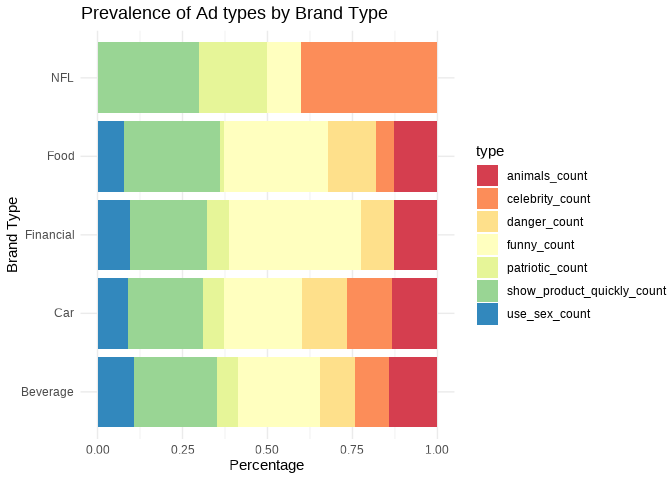
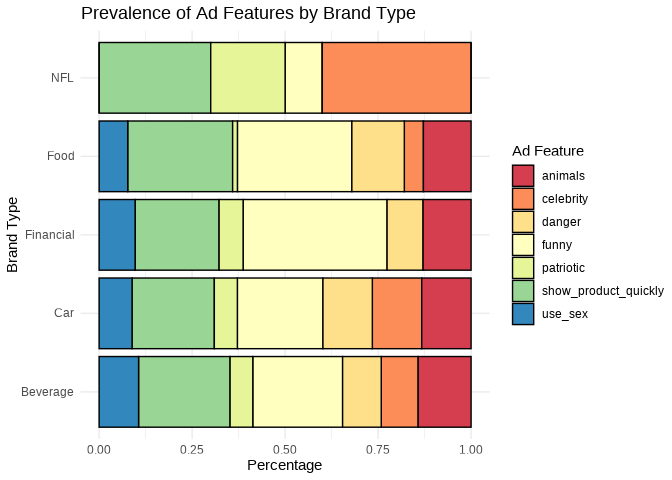
Cleanup Q1 plots

Changed region(s): [[0.125, 0.0, 1.0, 1.0], [0.125, 0.9062, 0.1562, 0.9688]]

diff --git a/README.md b/README.md
@@ -140,14 +140,14 @@ either color mapping or facets.\]
 ``` r
 q1_p1_data <- superbowl_data %>%
   group_by(year) %>%
-  summarise(funny_count = sum(funny),
-            show_product_quickly_count = sum(show_product_quickly),
-            patriotic_count = sum(patriotic),
-            celebrity_count = sum(celebrity),
-            danger_count = sum(danger),
-            animals_count = sum(animals),
-            use_sex_count = sum(use_sex)) %>%
-  pivot_longer(cols = c(funny_count, show_product_quickly_count, patriotic_count, celebrity_count, danger_count, animals_count, use_sex_count), names_to = "type")
+ summarise(funny = sum(funny),
+            show_product_quickly = sum(show_product_quickly),
+            patriotic = sum(patriotic),
+            celebrity = sum(celebrity),
+            danger = sum(danger),
+            animals = sum(animals),
+            use_sex = sum(use_sex)) %>%
+  pivot_longer(cols = c(funny, show_product_quickly, patriotic, celebrity, danger, animals, use_sex), names_to = "type")
 ```
 
 ``` r
@@ -166,35 +166,18 @@ q1_p2_data2 <- superbowl_data%>%
 
 q1_p2_data2 <- q1_p2_data2 %>%
   group_by(brand_type) %>%
-  summarise(funny_count = sum(funny),
-            show_product_quickly_count = sum(show_product_quickly),
-            patriotic_count = sum(patriotic),
-            celebrity_count = sum(celebrity),
-            danger_count = sum(danger),
-            animals_count = sum(animals),
-            use_sex_count = sum(use_sex)) %>%
-  pivot_longer(cols = c(funny_count, show_product_quickly_count, patriotic_count, celebrity_count, danger_count, animals_count, use_sex_count), names_to = "type")
+  summarise(funny = sum(funny),
+            show_product_quickly = sum(show_product_quickly),
+            patriotic = sum(patriotic),
+            celebrity = sum(celebrity),
+            danger = sum(danger),
+            animals = sum(animals),
+            use_sex = sum(use_sex)) %>%
+  pivot_longer(cols = c(funny, show_product_quickly, patriotic, celebrity, danger, animals, use_sex), names_to = "type")
 
-q1_p2_data2
-```
 
-    ## # A tibble: 35 × 3
-    ##    brand_type type                       value
-    ##    <chr>      <chr>                      <int>
-    ##  1 Beverage   funny_count                  107
-    ##  2 Beverage   show_product_quickly_count   109
-    ##  3 Beverage   patriotic_count               27
-    ##  4 Beverage   celebrity_count               44
-    ##  5 Beverage   danger_count                  46
-    ##  6 Beverage   animals_count                 63
-    ##  7 Beverage   use_sex_count                 47
-    ##  8 Car        funny_count                   26
-    ##  9 Car        show_product_quickly_count    25
-    ## 10 Car        patriotic_count                7
-    ## # … with 25 more rows
 
-``` r
-check_it <- q1_p2_data2 %>%
+q1_p2_data2 <- q1_p2_data2 %>%
   group_by(brand_type)%>% 
   mutate(per=value/sum(value)) %>%
   mutate(labels = paste(per, "%"))
@@ -217,8 +200,8 @@ animate(g,
 #### Visualization two
 
 ``` r
-ggplot(check_it, aes(fill=type, y=per, x=brand_type)) + 
-    geom_bar(position="stack", stat="identity") + coord_flip() + scale_fill_brewer(palette = "Spectral") + theme_minimal()+ labs(title = "Prevalence of Ad types by Brand Type", x= "Brand Type", y = "Percentage")
+ggplot(q1_p2_data2, aes(fill=type, y=per, x=brand_type)) + 
+    geom_bar(position="stack", stat="identity", color = "black") + coord_flip() + scale_fill_brewer(palette = "Spectral") + theme_minimal()+ labs(title = "Prevalence of Ad Features by Brand Type", x= "Brand Type", y = "Percentage", fill = "Ad Feature")
 ```
 
 ![](README_files/figure-gfm/viz1-1.png)<!-- -->
